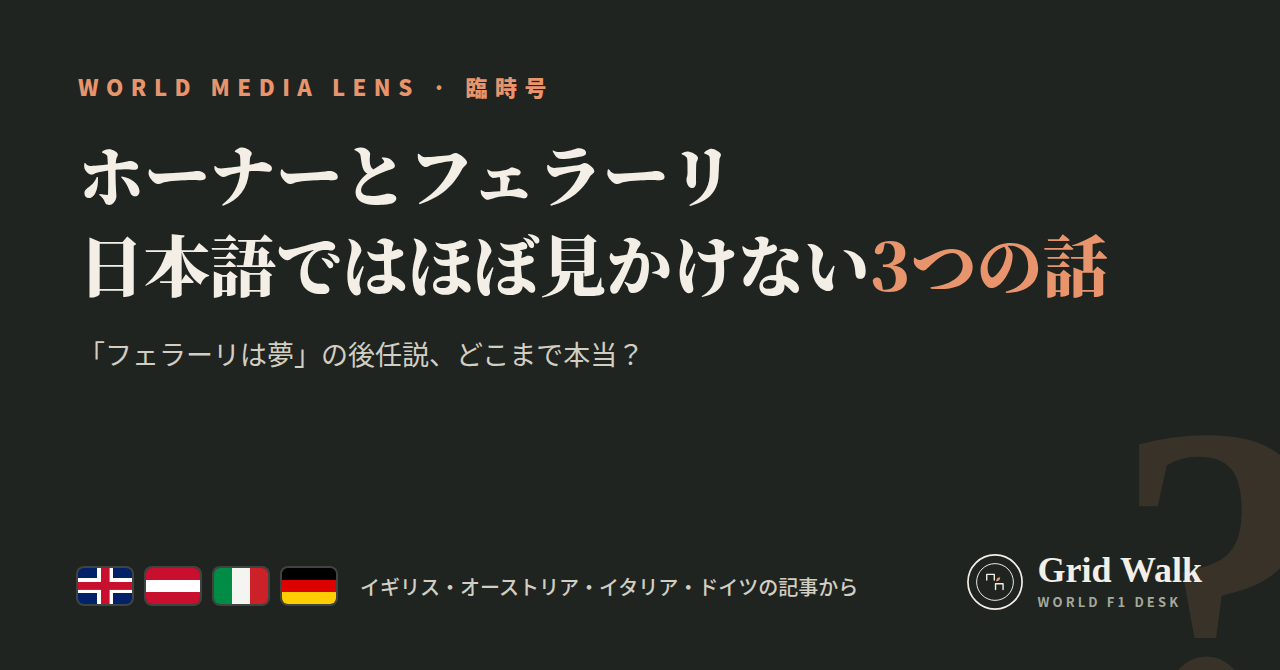
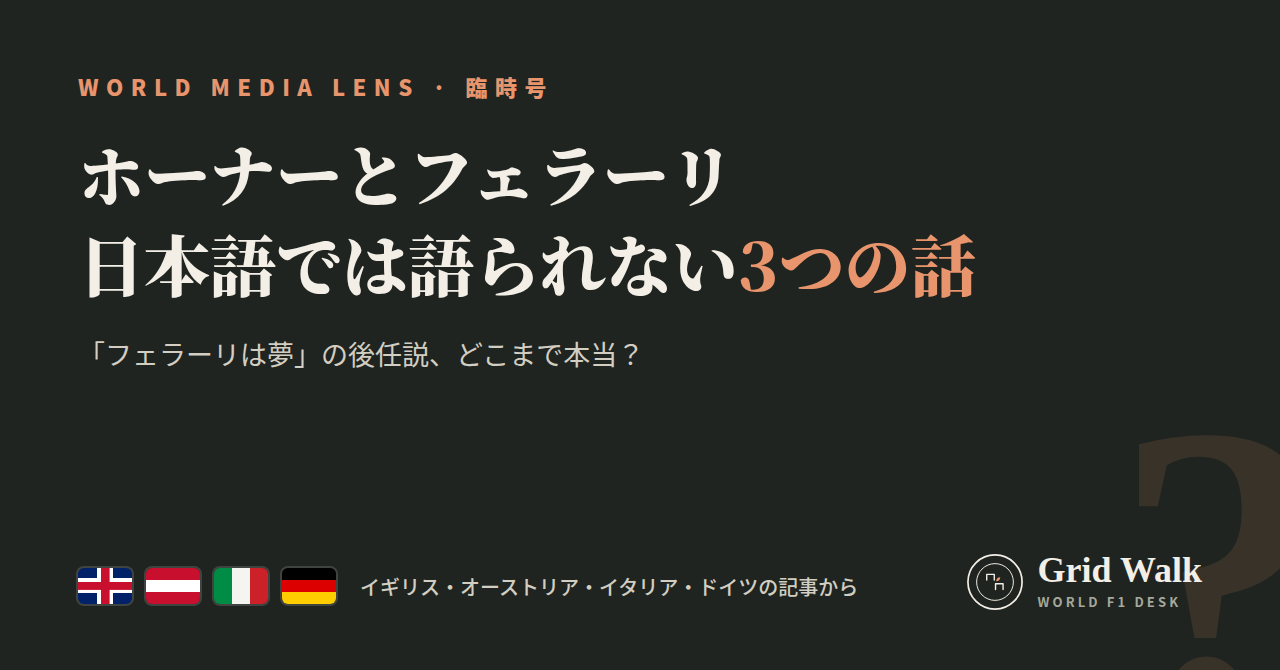
Reserve drafts: title wording 日本語では語られない
Claude-Session: https://claude.ai/code/session_01WE27aHTKBZasMD64JNUTip

Changed region(s): [[0.3125, 0.3284, 0.875, 0.4478]]

diff --git a/reserve/note_horner_コピー用.html b/reserve/note_horner_コピー用.html
@@ -1,5 +1,5 @@
 <!doctype html><html lang="ja"><head><meta charset="utf-8"><meta name="viewport" content="width=device-width,initial-scale=1">
-<title>note用原稿：「フェラーリは夢」の裏側で。日本語ではほぼ見かけない、ホーナーをめぐる3つの話</title>
+<title>note用原稿：「フェラーリは夢」の裏側で。日本語では語られない、ホーナーをめぐる3つの話</title>
 <style>
 :root{color-scheme:light}
 body{margin:0;background:#F3EFE6;color:#1F2420;font-family:-apple-system,'Hiragino Sans','Noto Sans JP',sans-serif;line-height:1.8}
@@ -30,9 +30,9 @@ body{margin:0;background:#F3EFE6;color:#1F2420;font-family:-apple-system,'Hiragi
 <li>公開設定でハッシュタグを貼り付けて公開</li>
 <li>公開する前にClaudeに一言。サイトの答え合わせのページを同時に公開します</li></ol>
 <p style="margin:0">※ 貼り付けたあと見出しが普通の文字になっていたら、その行を選んで「大見出し」にしてください。URLだけの行は、noteがリンクカードにしてくれます。</p></div>
-<div class="box"><div class="lbl">タイトル</div><div id="title">「フェラーリは夢」の裏側で。日本語ではほぼ見かけない、ホーナーをめぐる3つの話</div></div>
+<div class="box"><div class="lbl">タイトル</div><div id="title">「フェラーリは夢」の裏側で。日本語では語られない、ホーナーをめぐる3つの話</div></div>
 <div class="box"><div class="lbl">ハッシュタグ</div><div id="tags">#F1 #ホーナー #フェラーリ #ヴァスール #レッドブル #モータースポーツ</div></div>
-<div class="box"><div class="lbl">本文</div><div id="body"><p>ホーナーの「フェラーリは夢」。この一言で、ヴァスールの後任説が一気に世界を駆けめぐりました。</p><p>日本でもたくさん報じられましたが、海外の記事を読み比べていると、日本語ではほとんど見かけない話が出てくるんです。</p><p>今回はイギリスとオーストリアの記事から、「これは日本語では読めないな」と思った3本を拾ってきました。</p><h2>1. マルコは言った。「この子は要らない」（イギリス）</h2><p>10月22日に発売予定のホーナーの回顧録『Drive』。英紙タイムズに抜粋が載り、RacingNews365が紹介しています。</p><p>ホーナーによると、若いマックス・フェルスタッペンの獲得に、マルコは乗り気ではなかった。理由は、父ヨス。</p><p>マルコはヨスを「悪夢」と呼び、「この子は要らない」と言った、というのです。</p><p>あのマックスを、です。</p><p>※書かれているのは、あくまでホーナー側の言い分です。</p><h2>2. ナポリのバルコニーから、1枚の写真（イギリス）</h2><p>ホーナーはナポリにいました。ヨットのルイ・ヴィトン・カップで、英国チームを応援するためだそうです。</p><p>SNSに上げたのは、ホテルのバルコニーから卵城（カステル・デッローヴォ）を望む写真。</p><p>ここでネットがざわつきます。フェラーリ会長のエルカーンは、ステランティスの会長でもある。そのステランティスは、アルファロメオを通じてヨットチーム「ルナ・ロッサ」のパートナー。……ナポリで会っているんじゃないか？</p><p>RacingNews365の記者は「偶然か、それとも火のないところに煙は立たないのか」と書きつつ、会談は「まったく確認されていない」とも添えています。</p><h2>3. ヴァスールの陰のあだ名は「ナポレオン」？（オーストリア）</h2><p>オーストリアのoe24によると、イタリアのジャーナリスト、ジョルジョ・テルッツィは、ヴァスールがすでに陰で「ナポレオン」と呼ばれていると伝えています。</p><p>同じ記事には、元F1ドライバーのリカルド・パトレーゼも登場。「ホーナーはいいチーム代表だ。いい仕事ができると思う」。</p><p>ただしパトレーゼは、ホーナーがフェラーリに来るとは一言も言っていません。</p><h2>おまけ：ホーナーのフェラーリ入り、どこまで本当？</h2><p>イタリアの見出しは「ブルドーザー」「エルカーンは大逆転の準備」。ドイツでは「フェラーリの職をめぐって口論！」。</p><p>ところが、見出しの記事を開いて本文を読むと、ちょっと話が違うんです。</p><p>カギは、「誰が、何を言ったのか」。</p><p><strong>証拠と、あなたの判定（投票）はこちらで。</strong></p><p><a href="https://f1gridwalk.github.io/lens/horner-ferrari-2026/">https://f1gridwalk.github.io/lens/horner-ferrari-2026/</a></p><p>今回読んだ記事の原文リンクも、ここにまとめてあります。</p><h2>出典</h2><p>・RacingNews365（イギリス）回顧録『Drive』</p><p><a href="https://racingnews365.com/christian-horner-drops-nightmare-claim-about-helmut-marko-and-max-verstappen-signing">https://racingnews365.com/christian-horner-drops-nightmare-claim-about-helmut-marko-and-max-verstappen-signing</a></p><p>・RacingNews365（イギリス）ナポリの写真</p><p><a href="https://racingnews365.com/fred-vasseur-under-pressure-at-ferrari-the-christian-horner-rumours-explained">https://racingnews365.com/fred-vasseur-under-pressure-at-ferrari-the-christian-horner-rumours-explained</a></p><p>・oe24（オーストリア）</p><p><a href="https://www.oe24.at/a/ferrari-frust-horner-soll-napoleon-vasseur-abloesen-900117704">https://www.oe24.at/a/ferrari-frust-horner-soll-napoleon-vasseur-abloesen-900117704</a></p><p>※「日本語ではほぼ見かけない」は、autosport web、F1-Gate、Formula1-Data、motorsport.com日本版、TopNewsなどを日本語で検索した範囲での話です（9月28日時点）。見落としがあれば、ぜひ教えてください。</p><h2>WORLD MEDIA LENSについて</h2><p>世界のF1ニュースを日本語で読めるサイト「F1 Grid Walk」の連載です。ふだんは1レースにつき1本、世界の記事を読み比べて、日本語ではあまり見かけない話を届けています。今回は、レースの合間の臨時号です。フォローしてもらえると励みになります。</p><p><a href="https://f1gridwalk.github.io/">https://f1gridwalk.github.io/</a></p></div></div>
+<div class="box"><div class="lbl">本文</div><div id="body"><p>ホーナーの「フェラーリは夢」。この一言で、ヴァスールの後任説が一気に世界を駆けめぐりました。</p><p>日本でもたくさん報じられましたが、海外の記事を読み比べていると、日本語ではほとんど見かけない話が出てくるんです。</p><p>今回はイギリスとオーストリアの記事から、「これは日本語では読めないな」と思った3本を拾ってきました。</p><h2>1. マルコは言った。「この子は要らない」（イギリス）</h2><p>10月22日に発売予定のホーナーの回顧録『Drive』。英紙タイムズに抜粋が載り、RacingNews365が紹介しています。</p><p>ホーナーによると、若いマックス・フェルスタッペンの獲得に、マルコは乗り気ではなかった。理由は、父ヨス。</p><p>マルコはヨスを「悪夢」と呼び、「この子は要らない」と言った、というのです。</p><p>あのマックスを、です。</p><p>※書かれているのは、あくまでホーナー側の言い分です。</p><h2>2. ナポリのバルコニーから、1枚の写真（イギリス）</h2><p>ホーナーはナポリにいました。ヨットのルイ・ヴィトン・カップで、英国チームを応援するためだそうです。</p><p>SNSに上げたのは、ホテルのバルコニーから卵城（カステル・デッローヴォ）を望む写真。</p><p>ここでネットがざわつきます。フェラーリ会長のエルカーンは、ステランティスの会長でもある。そのステランティスは、アルファロメオを通じてヨットチーム「ルナ・ロッサ」のパートナー。……ナポリで会っているんじゃないか？</p><p>RacingNews365の記者は「偶然か、それとも火のないところに煙は立たないのか」と書きつつ、会談は「まったく確認されていない」とも添えています。</p><h2>3. ヴァスールの陰のあだ名は「ナポレオン」？（オーストリア）</h2><p>オーストリアのoe24によると、イタリアのジャーナリスト、ジョルジョ・テルッツィは、ヴァスールがすでに陰で「ナポレオン」と呼ばれていると伝えています。</p><p>同じ記事には、元F1ドライバーのリカルド・パトレーゼも登場。「ホーナーはいいチーム代表だ。いい仕事ができると思う」。</p><p>ただしパトレーゼは、ホーナーがフェラーリに来るとは一言も言っていません。</p><h2>おまけ：ホーナーのフェラーリ入り、どこまで本当？</h2><p>イタリアの見出しは「ブルドーザー」「エルカーンは大逆転の準備」。ドイツでは「フェラーリの職をめぐって口論！」。</p><p>ところが、見出しの記事を開いて本文を読むと、ちょっと話が違うんです。</p><p>カギは、「誰が、何を言ったのか」。</p><p><strong>証拠と、あなたの判定（投票）はこちらで。</strong></p><p><a href="https://f1gridwalk.github.io/lens/horner-ferrari-2026/">https://f1gridwalk.github.io/lens/horner-ferrari-2026/</a></p><p>今回読んだ記事の原文リンクも、ここにまとめてあります。</p><h2>出典</h2><p>・RacingNews365（イギリス）回顧録『Drive』</p><p><a href="https://racingnews365.com/christian-horner-drops-nightmare-claim-about-helmut-marko-and-max-verstappen-signing">https://racingnews365.com/christian-horner-drops-nightmare-claim-about-helmut-marko-and-max-verstappen-signing</a></p><p>・RacingNews365（イギリス）ナポリの写真</p><p><a href="https://racingnews365.com/fred-vasseur-under-pressure-at-ferrari-the-christian-horner-rumours-explained">https://racingnews365.com/fred-vasseur-under-pressure-at-ferrari-the-christian-horner-rumours-explained</a></p><p>・oe24（オーストリア）</p><p><a href="https://www.oe24.at/a/ferrari-frust-horner-soll-napoleon-vasseur-abloesen-900117704">https://www.oe24.at/a/ferrari-frust-horner-soll-napoleon-vasseur-abloesen-900117704</a></p><p>※「日本語では語られない」は、autosport web、F1-Gate、Formula1-Data、motorsport.com日本版、TopNewsなどを日本語で検索した範囲での話です（9月28日時点）。見落としがあれば、ぜひ教えてください。</p><h2>WORLD MEDIA LENSについて</h2><p>世界のF1ニュースを日本語で読めるサイト「F1 Grid Walk」の連載です。ふだんは1レースにつき1本、世界の記事を読み比べて、日本語ではあまり見かけない話を届けています。今回は、レースの合間の臨時号です。フォローしてもらえると励みになります。</p><p><a href="https://f1gridwalk.github.io/">https://f1gridwalk.github.io/</a></p></div></div>
 </div>
 <script>
 function copyEl(el, btn){

diff --git a/reserve/note_honda_コピー用.html b/reserve/note_honda_コピー用.html
@@ -1,5 +1,5 @@
 <!doctype html><html lang="ja"><head><meta charset="utf-8"><meta name="viewport" content="width=device-width,initial-scale=1">
-<title>note用原稿：海外から見たホンダ。日本語ではほぼ見かけない、アストンマーティン・ホンダの3つの話</title>
+<title>note用原稿：海外から見たホンダ。日本語では語られない、アストンマーティン・ホンダの3つの話</title>
 <style>
 :root{color-scheme:light}
 body{margin:0;background:#F3EFE6;color:#1F2420;font-family:-apple-system,'Hiragino Sans','Noto Sans JP',sans-serif;line-height:1.8}
@@ -30,9 +30,9 @@ body{margin:0;background:#F3EFE6;color:#1F2420;font-family:-apple-system,'Hiragi
 <li>公開設定でハッシュタグを貼り付けて公開</li>
 <li>公開する前にClaudeに一言。サイトの答え合わせのページを同時に公開します</li></ol>
 <p style="margin:0">※ 貼り付けたあと見出しが普通の文字になっていたら、その行を選んで「大見出し」にしてください。URLだけの行は、noteがリンクカードにしてくれます。</p></div>
-<div class="box"><div class="lbl">タイトル</div><div id="title">海外から見たホンダ。日本語ではほぼ見かけない、アストンマーティン・ホンダの3つの話</div></div>
+<div class="box"><div class="lbl">タイトル</div><div id="title">海外から見たホンダ。日本語では語られない、アストンマーティン・ホンダの3つの話</div></div>
 <div class="box"><div class="lbl">ハッシュタグ</div><div id="tags">#F1 #ホンダ #アストンマーティン #アロンソ #ストロール #モータースポーツ</div></div>
-<div class="box"><div class="lbl">本文</div><div id="body"><p>アストンマーティン・ホンダ、苦しいシーズンが続いています。</p><p>日本でもホンダのコメントは毎戦伝えられますが、海外の記事を読み比べると、日本語ではほとんど見かけない話が出てくるんです。</p><p>今回はブラジル・イギリス・スペインの記事から、3本を拾ってきました。</p><h2>1. 「無線を貸して」（ブラジル）</h2><p>バクーの決勝序盤、マシンを止めたストロール。コース脇で、マーシャルにこう迫ったそうです。</p><blockquote><p>「レースの終わりまでここで待つつもりはない。もう行く」「無線を貸して」</p></blockquote><p>止まった理由は、本人いわく「水圧の問題があって、止めるように言われた」。（Grande Prêmio）</p><p>リタイアは日本でも報じられましたが、このやりとりは見当たりませんでした。</p><h2>2. 17回目。あの年を超えた（イギリス）</h2><p>F1 Oversteerの集計によると、アストンマーティン・ホンダは今季ここまで17回、完走できていません。</p><p>比べられているのは、マクラーレン・ホンダ時代です。</p><ul><li>2015年：14回</li><li>2017年：15回</li><li>2026年：17回（バクー時点）</li></ul><p>しかも、シーズンはまだ残っています。ストロール個人では、リタイア11回に対して完走は4回。</p><p>※数字はF1 Oversteerの集計です。</p><h2>3. ホンダ「データでは問題なし」（スペイン）</h2><p>バクーの決勝、アロンソは直線でのパワー不足を訴えました。</p><p>これに対してホンダの折原伸太郎GMは、スペインのMotorsport.comにこう話しています。</p><blockquote><p>「今あるデータはすべて確認したが、今のところエンジンは問題ない」</p></blockquote><p>そのうえで、エンジンの出力、エネルギーマネジメント、そして「もしかするとGPS」まで確認する、と。</p><p>日本語の記事で伝えられていたのは、ホンダの公式コメント「現在我々が持つパッケージとしてこれ以上は望めない」のほう。この反論は見当たりませんでした。</p><h2>おまけ：遅いのは、ホンダのせい？</h2><p>開幕前、イギリスでは「責任はホンダに」という見出し。春には「遅れの半分以上は車体」という分析。そしてバクーでは、ホンダ自身が「これがPUの実力」。</p><p>いったい、どれが本当なのか。</p><p>カギは、「いつ」「どのコースで」の話なのか。</p><p><strong>証拠と、あなたの判定（投票）はこちらで。</strong></p><p><a href="https://f1gridwalk.github.io/lens/honda-abroad-2026/">https://f1gridwalk.github.io/lens/honda-abroad-2026/</a></p><p>今回読んだ記事の原文リンクも、ここにまとめてあります。</p><h2>出典</h2><p>・Grande Prêmio（ブラジル）</p><p><a href="https://grandepremio.com/en/f1/stroll-clashes-with-marshal-after-azerbaijan-gp-retirement-give-me-the-radio/">https://grandepremio.com/en/f1/stroll-clashes-with-marshal-after-azerbaijan-gp-retirement-give-me-the-radio/</a></p><p>・F1 Oversteer（イギリス）</p><p><a href="https://www.f1oversteer.com/news/lance-stroll-just-set-18-year-f1-dnf-record-with-latest-aston-martin-retirement-at-azerbaijan-gp/">https://www.f1oversteer.com/news/lance-stroll-just-set-18-year-f1-dnf-record-with-latest-aston-martin-retirement-at-azerbaijan-gp/</a></p><p>・Motorsport.com España（スペイン）</p><p><a href="https://es.motorsport.com/f1/news/honda-niega-problemas-motor-denunciados-alonso-baku/10859541/">https://es.motorsport.com/f1/news/honda-niega-problemas-motor-denunciados-alonso-baku/10859541/</a></p><p>※「日本語ではほぼ見かけない」は、autosport web、F1-Gate、Formula1-Data、motorsport.com日本版、TopNewsなどを日本語で検索した範囲での話です（9月28日時点）。見落としがあれば、ぜひ教えてください。</p><h2>WORLD MEDIA LENSについて</h2><p>世界のF1ニュースを日本語で読めるサイト「F1 Grid Walk」の連載です。ふだんは1レースにつき1本、世界の記事を読み比べて、日本語ではあまり見かけない話を届けています。今回は、レースの合間の臨時号です。フォローしてもらえると励みになります。</p><p><a href="https://f1gridwalk.github.io/">https://f1gridwalk.github.io/</a></p></div></div>
+<div class="box"><div class="lbl">本文</div><div id="body"><p>アストンマーティン・ホンダ、苦しいシーズンが続いています。</p><p>日本でもホンダのコメントは毎戦伝えられますが、海外の記事を読み比べると、日本語ではほとんど見かけない話が出てくるんです。</p><p>今回はブラジル・イギリス・スペインの記事から、3本を拾ってきました。</p><h2>1. 「無線を貸して」（ブラジル）</h2><p>バクーの決勝序盤、マシンを止めたストロール。コース脇で、マーシャルにこう迫ったそうです。</p><blockquote><p>「レースの終わりまでここで待つつもりはない。もう行く」「無線を貸して」</p></blockquote><p>止まった理由は、本人いわく「水圧の問題があって、止めるように言われた」。（Grande Prêmio）</p><p>リタイアは日本でも報じられましたが、このやりとりは見当たりませんでした。</p><h2>2. 17回目。あの年を超えた（イギリス）</h2><p>F1 Oversteerの集計によると、アストンマーティン・ホンダは今季ここまで17回、完走できていません。</p><p>比べられているのは、マクラーレン・ホンダ時代です。</p><ul><li>2015年：14回</li><li>2017年：15回</li><li>2026年：17回（バクー時点）</li></ul><p>しかも、シーズンはまだ残っています。ストロール個人では、リタイア11回に対して完走は4回。</p><p>※数字はF1 Oversteerの集計です。</p><h2>3. ホンダ「データでは問題なし」（スペイン）</h2><p>バクーの決勝、アロンソは直線でのパワー不足を訴えました。</p><p>これに対してホンダの折原伸太郎GMは、スペインのMotorsport.comにこう話しています。</p><blockquote><p>「今あるデータはすべて確認したが、今のところエンジンは問題ない」</p></blockquote><p>そのうえで、エンジンの出力、エネルギーマネジメント、そして「もしかするとGPS」まで確認する、と。</p><p>日本語の記事で伝えられていたのは、ホンダの公式コメント「現在我々が持つパッケージとしてこれ以上は望めない」のほう。この反論は見当たりませんでした。</p><h2>おまけ：遅いのは、ホンダのせい？</h2><p>開幕前、イギリスでは「責任はホンダに」という見出し。春には「遅れの半分以上は車体」という分析。そしてバクーでは、ホンダ自身が「これがPUの実力」。</p><p>いったい、どれが本当なのか。</p><p>カギは、「いつ」「どのコースで」の話なのか。</p><p><strong>証拠と、あなたの判定（投票）はこちらで。</strong></p><p><a href="https://f1gridwalk.github.io/lens/honda-abroad-2026/">https://f1gridwalk.github.io/lens/honda-abroad-2026/</a></p><p>今回読んだ記事の原文リンクも、ここにまとめてあります。</p><h2>出典</h2><p>・Grande Prêmio（ブラジル）</p><p><a href="https://grandepremio.com/en/f1/stroll-clashes-with-marshal-after-azerbaijan-gp-retirement-give-me-the-radio/">https://grandepremio.com/en/f1/stroll-clashes-with-marshal-after-azerbaijan-gp-retirement-give-me-the-radio/</a></p><p>・F1 Oversteer（イギリス）</p><p><a href="https://www.f1oversteer.com/news/lance-stroll-just-set-18-year-f1-dnf-record-with-latest-aston-martin-retirement-at-azerbaijan-gp/">https://www.f1oversteer.com/news/lance-stroll-just-set-18-year-f1-dnf-record-with-latest-aston-martin-retirement-at-azerbaijan-gp/</a></p><p>・Motorsport.com España（スペイン）</p><p><a href="https://es.motorsport.com/f1/news/honda-niega-problemas-motor-denunciados-alonso-baku/10859541/">https://es.motorsport.com/f1/news/honda-niega-problemas-motor-denunciados-alonso-baku/10859541/</a></p><p>※「日本語では語られない」は、autosport web、F1-Gate、Formula1-Data、motorsport.com日本版、TopNewsなどを日本語で検索した範囲での話です（9月28日時点）。見落としがあれば、ぜひ教えてください。</p><h2>WORLD MEDIA LENSについて</h2><p>世界のF1ニュースを日本語で読めるサイト「F1 Grid Walk」の連載です。ふだんは1レースにつき1本、世界の記事を読み比べて、日本語ではあまり見かけない話を届けています。今回は、レースの合間の臨時号です。フォローしてもらえると励みになります。</p><p><a href="https://f1gridwalk.github.io/">https://f1gridwalk.github.io/</a></p></div></div>
 </div>
 <script>
 function copyEl(el, btn){

diff --git a/reserve/body_honda.py b/reserve/body_honda.py
@@ -1,4 +1,4 @@
-TITLE = "海外から見たホンダ。日本語ではほぼ見かけない、アストンマーティン・ホンダの3つの話"
+TITLE = "海外から見たホンダ。日本語では語られない、アストンマーティン・ホンダの3つの話"
 TAGS = "#F1 #ホンダ #アストンマーティン #アロンソ #ストロール #モータースポーツ"
 L = "https://f1gridwalk.github.io/lens/honda-abroad-2026/"
 B = [
@@ -36,7 +36,7 @@ B = [
 ("url","https://www.f1oversteer.com/news/lance-stroll-just-set-18-year-f1-dnf-record-with-latest-aston-martin-retirement-at-azerbaijan-gp/"),
 ("p","・Motorsport.com España（スペイン）"),
 ("url","https://es.motorsport.com/f1/news/honda-niega-problemas-motor-denunciados-alonso-baku/10859541/"),
-("p","※「日本語ではほぼ見かけない」は、autosport web、F1-Gate、Formula1-Data、motorsport.com日本版、TopNewsなどを日本語で検索した範囲での話です（9月28日時点）。見落としがあれば、ぜひ教えてください。"),
+("p","※「日本語では語られない」は、autosport web、F1-Gate、Formula1-Data、motorsport.com日本版、TopNewsなどを日本語で検索した範囲での話です（9月28日時点）。見落としがあれば、ぜひ教えてください。"),
 ("h2","WORLD MEDIA LENSについて"),
 ("p","世界のF1ニュースを日本語で読めるサイト「F1 Grid Walk」の連載です。ふだんは1レースにつき1本、世界の記事を読み比べて、日本語ではあまり見かけない話を届けています。今回は、レースの合間の臨時号です。フォローしてもらえると励みになります。"),
 ("url","https://f1gridwalk.github.io/"),

diff --git a/reserve/body_horner.py b/reserve/body_horner.py
@@ -1,4 +1,4 @@
-TITLE = "「フェラーリは夢」の裏側で。日本語ではほぼ見かけない、ホーナーをめぐる3つの話"
+TITLE = "「フェラーリは夢」の裏側で。日本語では語られない、ホーナーをめぐる3つの話"
 TAGS = "#F1 #ホーナー #フェラーリ #ヴァスール #レッドブル #モータースポーツ"
 L = "https://f1gridwalk.github.io/lens/horner-ferrari-2026/"
 B = [
@@ -34,7 +34,7 @@ B = [
 ("url","https://racingnews365.com/fred-vasseur-under-pressure-at-ferrari-the-christian-horner-rumours-explained"),
 ("p","・oe24（オーストリア）"),
 ("url","https://www.oe24.at/a/ferrari-frust-horner-soll-napoleon-vasseur-abloesen-900117704"),
-("p","※「日本語ではほぼ見かけない」は、autosport web、F1-Gate、Formula1-Data、motorsport.com日本版、TopNewsなどを日本語で検索した範囲での話です（9月28日時点）。見落としがあれば、ぜひ教えてください。"),
+("p","※「日本語では語られない」は、autosport web、F1-Gate、Formula1-Data、motorsport.com日本版、TopNewsなどを日本語で検索した範囲での話です（9月28日時点）。見落としがあれば、ぜひ教えてください。"),
 ("h2","WORLD MEDIA LENSについて"),
 ("p","世界のF1ニュースを日本語で読めるサイト「F1 Grid Walk」の連載です。ふだんは1レースにつき1本、世界の記事を読み比べて、日本語ではあまり見かけない話を届けています。今回は、レースの合間の臨時号です。フォローしてもらえると励みになります。"),
 ("url","https://f1gridwalk.github.io/"),
